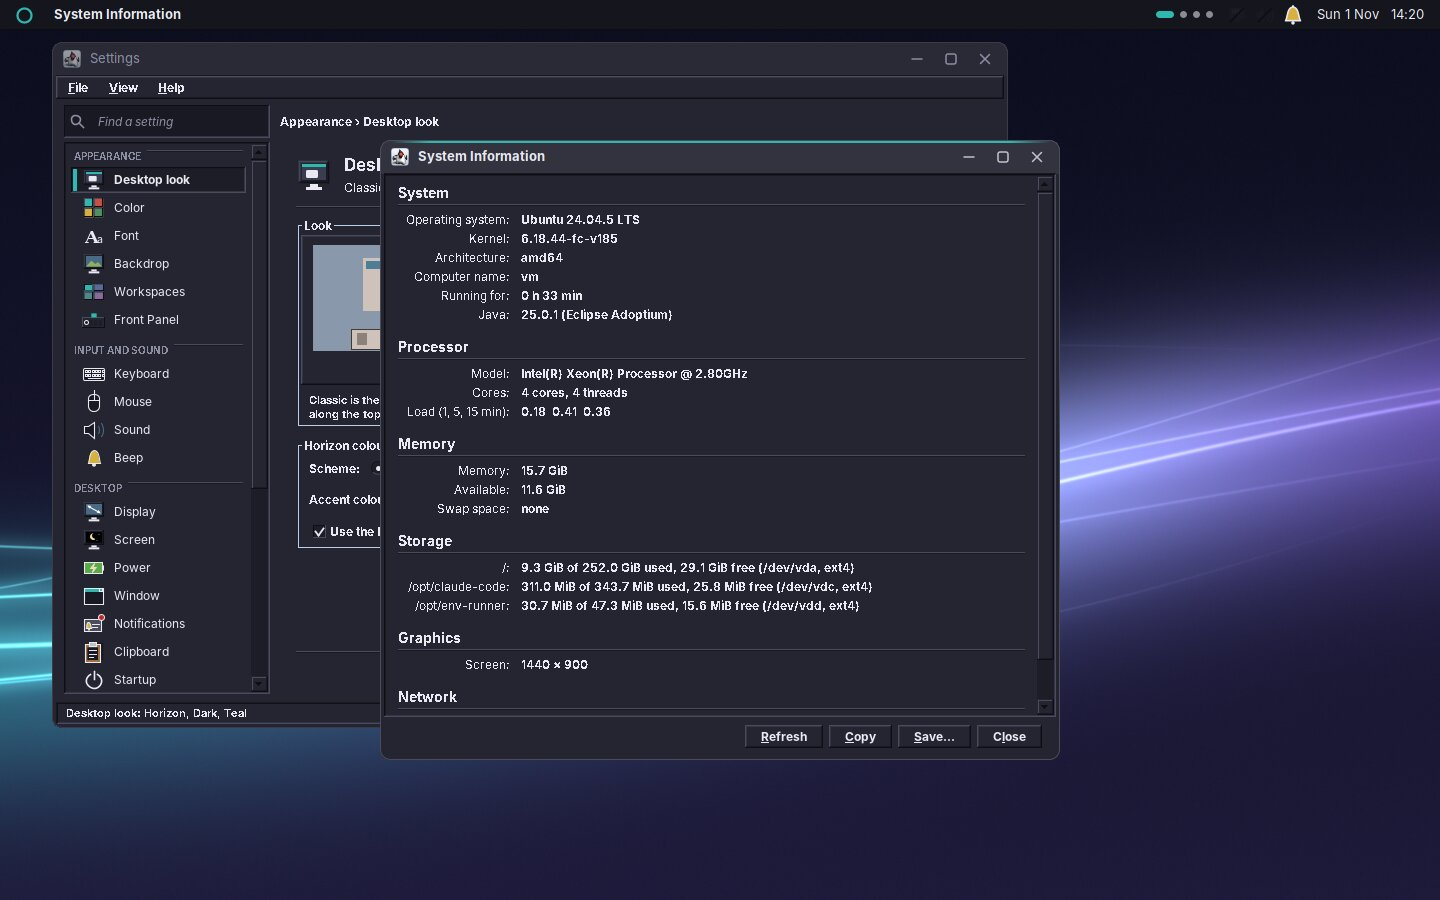
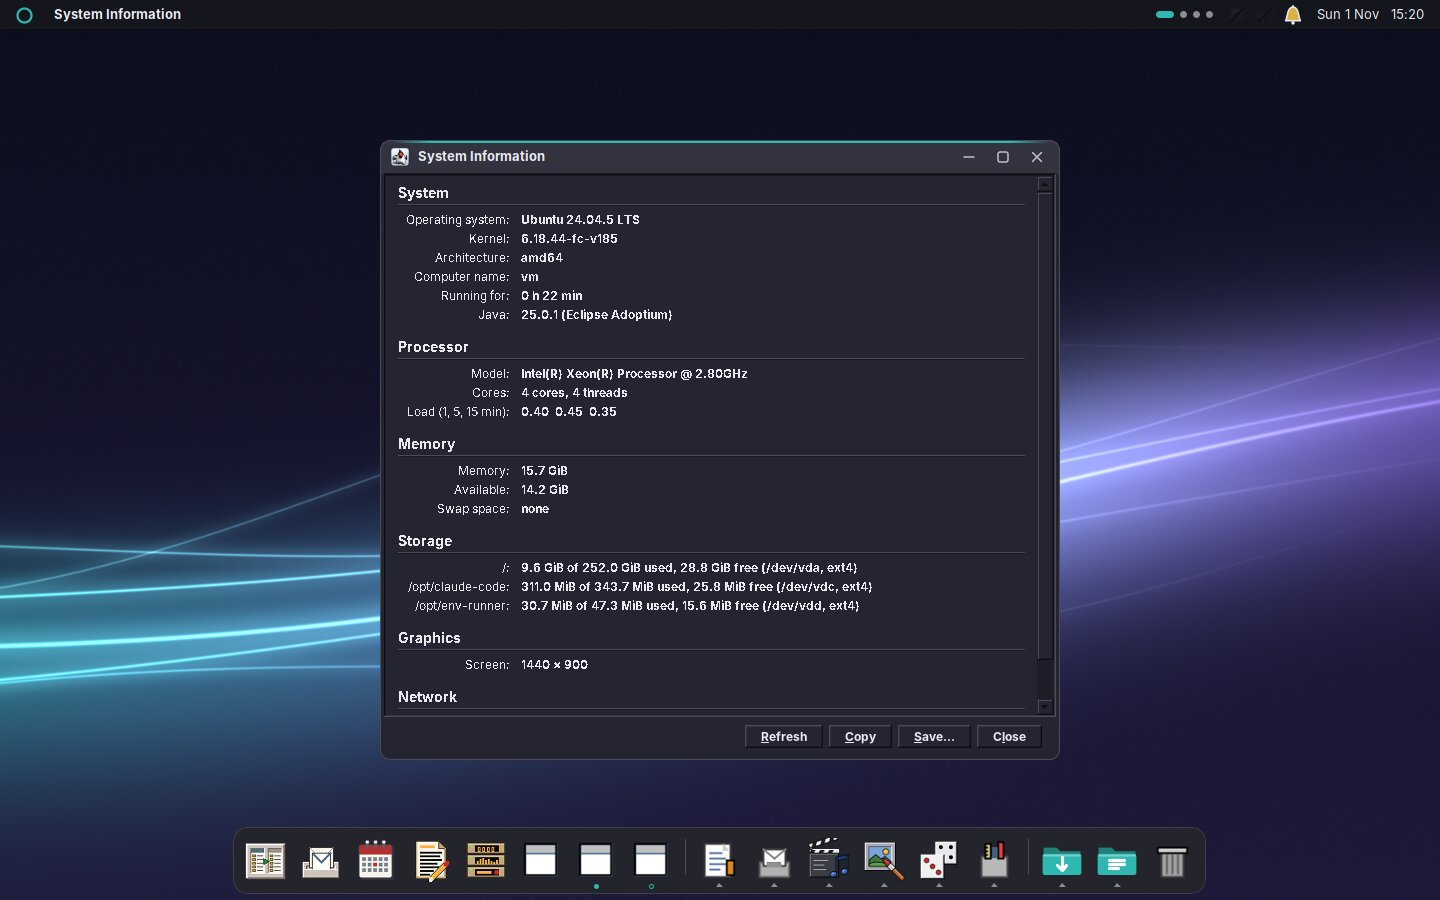
docs(handbook): the Horizon dock in chapter 29
Claude-Session: https://claude.ai/code/session_017Pd6NbNg14WS7fxrg1GAVg

diff --git a/docs/handbook/chapters/29-horizon.md b/docs/handbook/chapters/29-horizon.md
@@ -1,6 +1,6 @@
 # 29. The Horizon Look
 
-amadeOS has two looks for the whole desktop. **Classic** is the CDE desktop this handbook mostly shows: the Front Panel at the bottom, Motif window frames and the palettes of chapter 31. **Horizon** is a second, modern look: a slim bar along the top of the screen, flat window frames with rounded corners, and dark or light colours with an accent colour of your choice.
+amadeOS has two looks for the whole desktop. **Classic** is the CDE desktop this handbook mostly shows: the Front Panel at the bottom, Motif window frames and the palettes of chapter 31. **Horizon** is a second, modern look: a slim bar along the top of the screen, a dock at the bottom, flat window frames with rounded corners, and dark or light colours with an accent colour of your choice.
 
 Both looks run the same programs, the same window manager and the same settings. You can switch back and forth at any time; nothing is lost.
 
@@ -15,11 +15,12 @@ Open **Settings → Desktop look** (the first page of the *Appearance* group).
 1. Click the picture **Classic** or **Horizon**.
 2. For Horizon, choose the **Scheme**, *Dark* or *Light*, and an **Accent colour**: teal, violet, amber, red, green or blue. The picture shows how it will look.
 3. Leave **Use the Horizon background picture** ticked to get the matching background (*horizon-dark.png* or *horizon-light.png*); clear it to keep your own backdrop.
-4. Click **Apply**.
+4. Under **Dock**, choose the **Icon size** (*Small*, *Medium* or *Large*) and whether the dock shows the program drawers and the Downloads and Documents folders.
+5. Click **Apply**.
 
 ![Horizon with the Light scheme and the violet accent](images/29/horizon-light.jpg)
 
-The window frames change at once, the Front Panel gives way to the top bar (or the other way round), and the open amadeOS applications take the new colours. You do not need to log out. Your choices are kept: switch back to Classic and you get your last palette again; switch to Horizon and you get your last scheme and accent colour.
+The window frames change at once, the Front Panel gives way to the top bar and the dock (or the other way round), and the open amadeOS applications take the new colours. You do not need to log out. Your choices are kept: switch back to Classic and you get your last palette again; switch to Horizon and you get your last scheme and accent colour.
 
 ## The top bar
 
@@ -37,6 +38,34 @@ From left to right the top bar holds:
 
 Windows stay below the top bar: a maximised window fills the screen under it, and a window cannot be dragged under it.
 
+## The dock
+
+![The dock](images/29/dock.jpg)
+
+The dock floats at the bottom of the screen. Thin lines divide it into three parts:
+
+| Part | What it holds |
+|---|---|
+| **Programs** | Your favourite programs, then the programs that are running without being favourites. A dot under an icon means the program is running; a ring means all its windows are minimised. |
+| **Drawers** | The groups of the Front Panel's drawers: Text & Office, Mail & Internet, Sound & Video, Graphics, Games and Tools. A small triangle marks a drawer. |
+| **Folders and Trash** | Downloads and Documents, then the Trash. |
+
+**Programs.** A click on a program that is not running starts it. A click on a running program brings its window to the front; a click on the program you are working in minimises its window, or, with several windows, goes on to the next one. A click with the middle mouse button opens a new window. The right mouse button opens a menu with the program's windows, *New window*, *Keep in dock* or *Remove from dock*, and *Close* (or *Close all windows*).
+
+To add a program to the dock, start it, then choose *Keep in dock* from its menu; it stays after you close it. *Remove from dock* takes it out again. The first favourites are Files, Firefox, Mail, Calendar, WritePad, Audio Station, Terminal and Software, those of them that are installed.
+
+**Minimised windows** go into their program's icon in the dock, not onto the desktop: click the icon, or choose the window from its menu, to bring it back. In the Classic look they become desktop icons again.
+
+![A drawer of the dock](images/29/dock-drawer.jpg)
+
+**Drawers.** A click on a drawer opens the installed programs of its group above the dock; a click on a program starts it. Programs you install appear in their drawer right away.
+
+![The Downloads folder in the dock](images/29/dock-folder.jpg)
+
+**Folders.** A click on Downloads or Documents shows the ten newest files of the folder; a click on a file opens it in its program, *Open folder* opens the folder in Files. A click on the **Trash** opens it in Files.
+
+Windows stay above the dock, as they stay below the top bar: a maximised window fills the space between the two.
+
 ## The window frames
 
 ![A Horizon window frame](images/29/frame.jpg)
@@ -50,7 +79,7 @@ A Horizon frame has a flat title bar in the window's own colour. A thin line in 
 The corners are rounded with the X Shape extension. Without a compositor the edge is cut pixel by pixel, so the corners look slightly stepped; the soft shadow of other desktops is not there.
 
 !!! planned "Planned: the rest of Horizon"
-    This is the first step of the Horizon look. Planned next: a **dock** at the bottom with your favourite programs, the running ones and drawers; a **search bar** for programs, settings and files; **desktop widgets** (calendar, to-dos, a photo, a clock); folder icons on the desktop; a flat look for the amadeOS applications and a Horizon icon set. Until then, the amadeOS applications keep their Motif buttons in Horizon's colours, and minimised windows become icons at the top left of the desktop, as in Classic.
+    Planned next: a **search bar** for programs, settings and files; **desktop widgets** (calendar, to-dos, a photo, a clock); folder icons on the desktop; dragging programs within the dock to reorder them; a flat look for the amadeOS applications and a Horizon icon set. Until then, the amadeOS applications keep their Motif buttons in Horizon's colours.
 
 !!! info "Under the hood"
-    The look is stored in `~/.config/amadeos/look.conf` (`look=horizon`, `scheme=dark`, `accent=teal`); the classic palette stays in `theme.conf`. The top bar is the package **amadeos-panel-horizon**. `amadeos-session` starts the panel of the look; when the look changes, the running panel ends with exit code 75 and the session starts the other one (chapter 55). Without amadeos-panel-horizon, the Front Panel stays in both looks.
+    The look is stored in `~/.config/amadeos/look.conf` (`look=horizon`, `scheme=dark`, `accent=teal`); the classic palette stays in `theme.conf`. The top bar and the dock are the package **amadeos-panel-horizon**, one program; the dock's favourites, icon size and parts are in `~/.config/amadeos/dock.conf`. The dock sets `_AMADEOS_DOCK_TAKES_MINIMIZED` on its window, so the window manager gives minimised windows no desktop icon while it runs. `amadeos-session` starts the panel of the look; when the look changes, the running panel ends with exit code 75 and the session starts the other one (chapter 55). Without amadeos-panel-horizon, the Front Panel stays in both looks.

diff --git a/ROADMAP.md b/ROADMAP.md
@@ -56,7 +56,7 @@ Merged and installed by `buildDistribution.sh`, but so far only checked under Xv
 - Settings pages Network connections, Sound, Bluetooth and Printers: so far only with fake services under Xvfb; pairing, the sound card profiles and adding a printer need real devices.
 - File Manager: USB sticks, memory cards and discs (mount, unmount, Safely Remove through `udisks2`) so far only with a fake drive list under Xvfb; needs a real stick in QEMU (`-device usb-storage`) or on hardware, also with the polkit rules of udisks for the active session. Extract and Compress are tested by unit tests.
 - Power (Settings > Power, Suspend/Hibernate in EXIT, lid and power button): only unit tests and pictures under Xvfb; needs logind on a real laptop (lid, battery, suspend and resume, hibernate with swap).
-- Horizon look: switching Classic and Horizon in a real session (the panel hand-over through `amadeos-session`), the rounded frames on real graphics, the top bar's status cells on hardware.
+- Horizon look: switching Classic and Horizon in a real session (the panel hand-over through `amadeos-session`), the rounded frames and the shaped dock on real graphics, the top bar's status cells on hardware.
 - Alt+Tab switcher, clipboard manager, bell through the sound card (Xvfb ignores `xset b`), gnome-keyring unlocked at login.
 - Software (M15): the end-to-end test in QEMU — first start loads the package lists, the polkit password window appears, a package gets installed, an update goes through the panel cell.
 - Installer (M14): the UEFI path (`run-qemu.sh --uefi`) and installing next to Windows, then the Zephyrus laptop (UEFI, NVMe, Secure Boot with the signed shim).
@@ -140,6 +140,7 @@ Newest first. Numbers without a repository name are pull requests in this reposi
 
 ### 2026-11-01
 
+- Horizon look, step 2 (system #PR_SYS, commons #PR_COM): the **dock** at the bottom with the favourite and running programs (dot for running, ring for minimised; Keep in dock, Remove from dock, New window, Close), the program drawers, Downloads and Documents with their newest files, and the Trash; minimised windows go into the dock instead of onto the desktop; Settings > Desktop look sets the icon size and the dock's parts. User's Handbook chapter 29.
 - Second desktop look **Horizon**, step 1 (system #63, commons #72): Settings > Desktop look switches Classic and Horizon live; Horizon has a top bar (`amadeos-panel-horizon`: system menu with all programs, program name, workspace dots, the Front Panel's status cells, clock), flat window frames with rounded corners and an accent line, Dark and Light schemes with six accent colours and two background pictures. The session swaps the panels without logging out. User's Handbook chapter 29. Planned next: dock with drawers, search, desktop widgets, flat applications, icon set, choice at the login screen.
 - New application [`amade-terminal`](https://github.com/amadeos-eu/amade-terminal) (#1): the amadeOS terminal with its own xterm compatible emulator on a pseudo terminal (Java FFM, no native library); tabs, copy and paste (selection and middle click, Ctrl+Shift+C/V), a warning before pasting several lines, find in the scrollback, links, colour schemes. Registered as `x-terminal-emulator`; the Tools drawer, the desktop menu, `Terminal=true` programs and the new Ctrl+Alt+T start it (system #62); `bash-completion` in the image; User's Handbook chapter 42.
 

diff --git a/docs/handbook/chapters/30-settings.md b/docs/handbook/chapters/30-settings.md
@@ -84,4 +84,4 @@ In that window, **OK** saves, applies and closes; **Apply** saves and applies an
     CDE's Style Manager, `dtstyle`, was a row of buttons, each opening a small window. That worked for a handful of controls; amadeOS has more to set, so the sidebar groups them and a search finds them. The compact view keeps the CDE row for those who prefer it.
 
 ??? hood "Under the hood"
-    Settings writes small text files to `~/.config/amadeos/`, one per control: `look.conf` (Desktop look), `theme.conf` and `icon_theme.conf` (Color), `font.conf` (Font), `wallpaper.conf` (Backdrop), `input.conf` (Keyboard, Mouse and Beep), `display.conf` (Display), `screen.conf` (Screen), `power.conf` (Power), `window.conf` (Window), `notifications.conf` (Notifications), `clipboard.conf` (Clipboard), `workspaces.conf` (Workspaces), `panel.conf` (Front Panel), `startup.conf` (Startup), `locale.conf` (Language) and `formats.conf` (Date and Time); the default applications are in `~/.config/mimeapps.list`; the programs started at login are in `~/.config/autostart/`; its own view is kept in `settings.conf`. The desktop and the amadeOS applications watch these files, so a change reaches them at once. Chapter 56 lists all settings files.
+    Settings writes small text files to `~/.config/amadeos/`, one per control: `look.conf` and `dock.conf` (Desktop look), `theme.conf` and `icon_theme.conf` (Color), `font.conf` (Font), `wallpaper.conf` (Backdrop), `input.conf` (Keyboard, Mouse and Beep), `display.conf` (Display), `screen.conf` (Screen), `power.conf` (Power), `window.conf` (Window), `notifications.conf` (Notifications), `clipboard.conf` (Clipboard), `workspaces.conf` (Workspaces), `panel.conf` (Front Panel), `startup.conf` (Startup), `locale.conf` (Language) and `formats.conf` (Date and Time); the default applications are in `~/.config/mimeapps.list`; the programs started at login are in `~/.config/autostart/`; its own view is kept in `settings.conf`. The desktop and the amadeOS applications watch these files, so a change reaches them at once. Chapter 56 lists all settings files.

diff --git a/docs/handbook/chapters/55-session.md b/docs/handbook/chapters/55-session.md
@@ -64,7 +64,7 @@ sudo update-alternatives --config amadeos-panel
 
 A single user can choose another one for themselves with `AUTOSTART_APP` in their `session.conf`.
 
-The **Horizon look** (chapter 29) brings its own panel, the top bar `amadeos-panel-horizon`. It is not chosen with `update-alternatives`: while `look.conf` says `look=horizon` and the top bar is installed, the session starts it instead of the panel above. When you switch the look in Settings, the running panel ends with exit code 75, and the session starts the panel of the new look without logging you out. Any other exit code ends the session as before.
+The **Horizon look** (chapter 29) brings its own panel, the top bar and dock `amadeos-panel-horizon`. It is not chosen with `update-alternatives`: while `look.conf` says `look=horizon` and the top bar is installed, the session starts it instead of the panel above. When you switch the look in Settings, the running panel ends with exit code 75, and the session starts the panel of the new look without logging you out. Any other exit code ends the session as before.
 
 !!! planned "Planned"
     Besides the Horizon top bar, the CDE Front Panel is the only panel of amadeOS. The way to replace it is there so that other desktops can follow without changing the rest of the system.

diff --git a/docs/handbook/chapters/e-what-is-planned.md b/docs/handbook/chapters/e-what-is-planned.md
@@ -28,7 +28,7 @@ The *Planned* boxes of this book, collected in one place, sorted by where they b
 | Pictures of the users, automatic login, rules for good passwords, giving a folder to a group in Files | 53 |
 | Fixed addresses, VPNs and a hotspot on the Network page of Settings | 38, 54 |
 | More panels than the CDE Front Panel and the Horizon top bar | 55 |
-| Horizon: a dock with drawers, a search bar, desktop widgets, folder icons on the desktop, flat amadeOS applications and a Horizon icon set; choosing the look at the login screen | 29 |
+| Horizon: a search bar, desktop widgets, reordering the dock by dragging, folder icons on the desktop, flat amadeOS applications and a Horizon icon set; choosing the look at the login screen | 29 |
 | More languages | 25 |
 
 ## The applications

diff --git a/docs/handbook/chapters/56-settings-reference.md b/docs/handbook/chapters/56-settings-reference.md
@@ -16,6 +16,8 @@ Your settings are in your home folder, in folders whose names start with a dot a
 
 | File in `~/.config/amadeos/` | Written by | Chapter |
 |---|---|---|
+| `look.conf` | Settings: Desktop look (Classic or Horizon, scheme, accent colour) | 29 |
+| `dock.conf` | Settings: Desktop look (dock size and parts), the dock's Keep in dock and Remove from dock | 29 |
 | `theme.conf`, `icon_theme.conf` | Settings: Color | 31 |
 | `font.conf` | Settings: Font | 35 |
 | `wallpaper.conf` | Settings: Backdrop | 32 |
